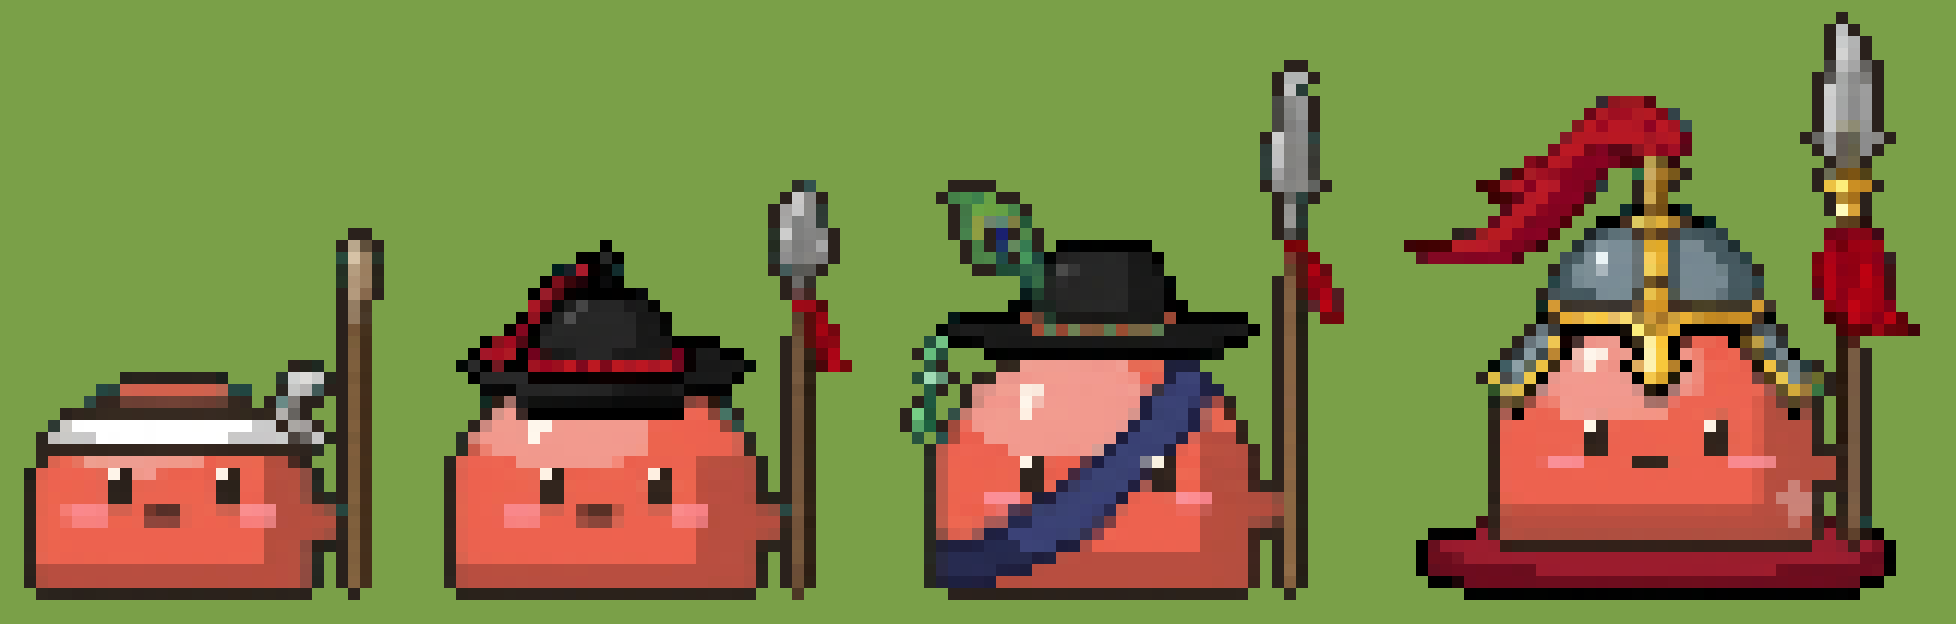
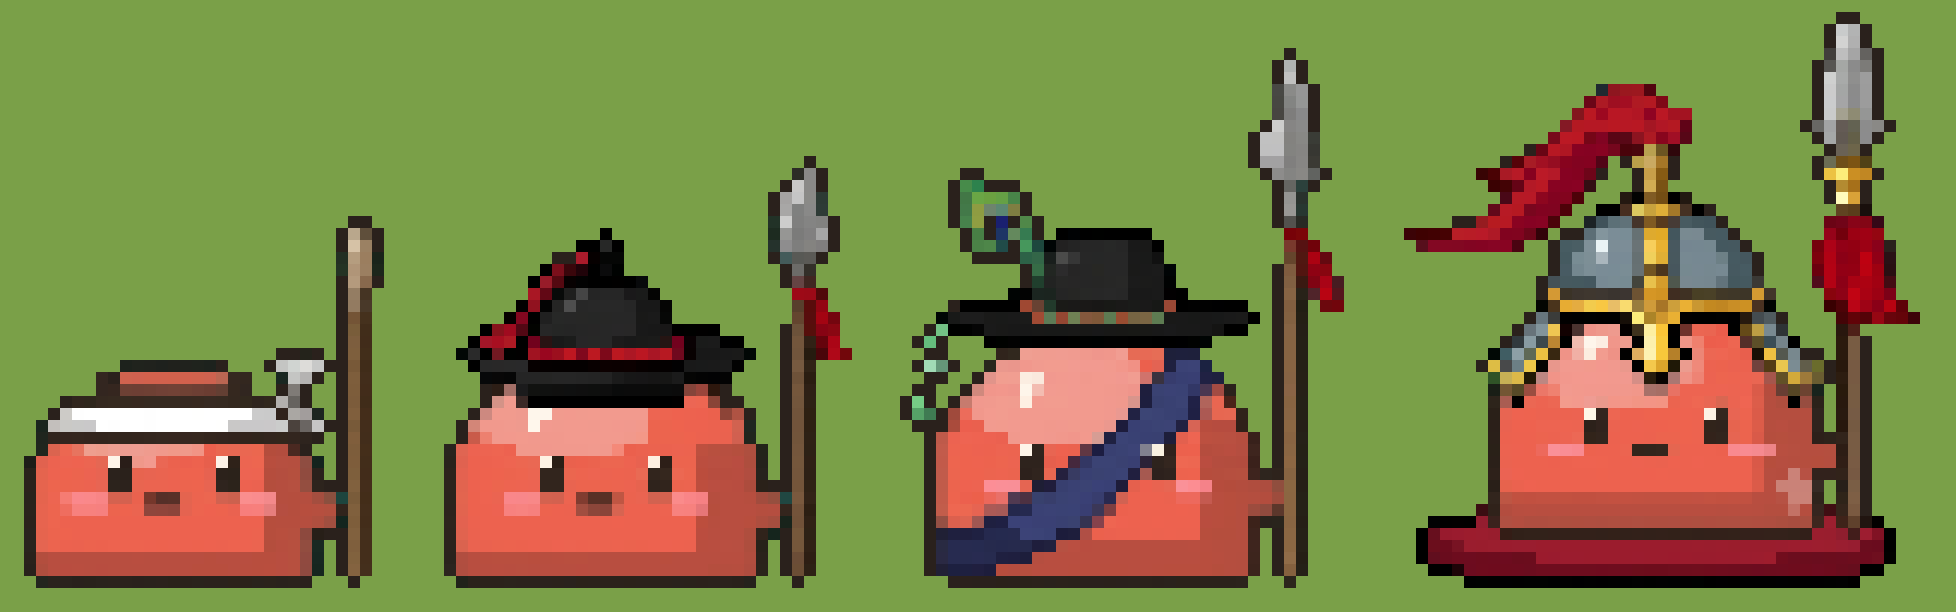
art+unity: 맵에 맞춰 다시 뽑은 기본 슬라임 4단계(청회색 외곽선) 넣기 — 미리보기 기본, Space로 옛/V2 비교
Claude-Session: https://claude.ai/code/session_01516Ff1ezD39vnqGwiHhyKB

diff --git a/unity/Assets/Scripts/Game/Sprites.cs b/unity/Assets/Scripts/Game/Sprites.cs
@@ -18,8 +18,13 @@ namespace Mallang
         public const float BoardPerDotV2 = 1.5f;
         public const int Unit2PxPerDot = 3; // sync_art.py UNIT2_PX와 같아야 함
 
-        /// 큰 새 슬라임을 쓸지 (없는 병과는 옛 그림으로). 미리보기에서 Space로 바꿈.
-        public static bool UseV2 = true;
+        /// 맵에 맞춰 다시 뽑은 기본 슬라임(base-*): 몸 폭 23~48도트로 잘게 그려져 있어 1도트 = 보드 1.125.
+        public const float BoardPerDotBase = 1.125f;
+
+        /// 미리보기 그림 고르기 (Space로 돌아감): 옛 그림 → 큰 새 그림(V2) → 맵에 맞춘 기본 슬라임
+        public enum Look { V1, V2, Base }
+        public static Look Mode = Look.Base;
+        public static bool UseV2 => Mode == Look.V2;
 
         static readonly Dictionary<string, Sprite> cache = new Dictionary<string, Sprite>();
 
@@ -64,6 +69,12 @@ namespace Mallang
         /// 도트 슬라임 (예: "spear-jangsu"). 피벗 = 발. UseV2면 큰 새 그림이 있을 때 그것을 쓴다.
         public static Sprite Unit(string name)
         {
+            if (Mode == Look.Base)
+            {
+                int dash = name.IndexOf('-');
+                var b = UnitV2("base" + name.Substring(dash), BoardPerDotBase);
+                if (b != null) return b;
+            }
             if (UseV2)
             {
                 var v2 = UnitV2(name);
@@ -72,7 +83,7 @@ namespace Mallang
             return UnitV1(name);
         }
 
-        static Sprite UnitV2(string name)
+        static Sprite UnitV2(string name, float boardPerDot = BoardPerDotV2)
         {
             string key = $"unit2:{name}";
             if (cache.TryGetValue(key, out var s)) return s;
@@ -82,7 +93,7 @@ namespace Mallang
             if (t == null) return null;
             var foot = footDots.Value * Unit2PxPerDot;
             var pivot = new Vector2(foot.x / t.width, 1 - foot.y / t.height);
-            s = Sprite.Create(t, new Rect(0, 0, t.width, t.height), pivot, Ppu(Unit2PxPerDot / BoardPerDotV2), 0, SpriteMeshType.FullRect);
+            s = Sprite.Create(t, new Rect(0, 0, t.width, t.height), pivot, Ppu(Unit2PxPerDot / boardPerDot), 0, SpriteMeshType.FullRect);
             s.name = name;
             return cache[key] = s;
         }

diff --git a/art/tools/slime/snap_pixel_slime.py b/art/tools/slime/snap_pixel_slime.py
@@ -19,6 +19,7 @@ RANKS = ['gunjol', 'jeongbyeong', 'gungwan', 'jangsu']
 BODY = {   # 병과별 몸 기본색 (견본과 같음) — 발 위치를 찾을 때 씀
     'spear': (240, 106, 85), 'archer': (116, 201, 94), 'gunner': (164, 134, 224),
     'cavalry': (240, 177, 69), 'navy': (85, 166, 234), 'mystic': (180, 187, 197),
+    'base': (218, 108, 85),   # 맵에 맞춘 기본 슬라임 (차분한 산호색)
 }
 
 
@@ -223,7 +224,7 @@ def redraw_face(piece, off, body_rgb):
     else: put(ey + 2, int(mid), OUTLINE); put(ey + 2, int(mid) + 1, OUTLINE)
 
 
-def clean_piece(piece, body_rgb):
+def clean_piece(piece, body_rgb, outline=(42, 33, 28)):
     """도트 정리: 제미나이 격자가 고르지 않아 생긴 흠을 고친다.
     ① 혼자 떨어진 점 지우기 ② 배경(하늘색)이 번진 청록 점을 옆 색으로
     ④ 바깥 외곽선이 끊긴 곳을 1도트 진한 갈색 외곽선으로 이어 닫기."""
@@ -255,7 +256,15 @@ def clean_piece(piece, body_rgb):
     ring = np.zeros_like(big)
     ring[1:, :] |= big[:-1, :]; ring[:-1, :] |= big[1:, :]; ring[:, 1:] |= big[:, :-1]; ring[:, :-1] |= big[:, 1:]
     ring &= ~np.pad(a, 1)
-    out[ring] = (42, 33, 28, 255)
+    out[ring] = (*outline, 255)
+    # 가장자리에 남은 청록 섞인 진한 점 → 외곽선 색
+    oc = out[..., :3].astype(int)
+    oa = out[..., 3] > 0
+    edge = oa & ~np.pad(np.ones((H, W), bool), 1)
+    pad2 = np.pad(oa, 1)
+    border = oa & ~(pad2[:-2, 1:-1] & pad2[2:, 1:-1] & pad2[1:-1, :-2] & pad2[1:-1, 2:])
+    tealish = border & (oc[..., 1] > oc[..., 0] + 10) & (oc[..., 2] > oc[..., 0] + 10) & (oc.sum(2) < 400)
+    out[tealish] = (*outline, 255)
     return out
 
 

diff --git a/art/tools/slime/unity_sheet.py b/art/tools/slime/unity_sheet.py
@@ -43,17 +43,28 @@ def dot_size(path):
     return p + (w[2] - w[0]) / max(1.0, w.sum()) 
 
 
+MAP_OUTLINE = (60, 68, 70)   # 맵·궁 외곽선 청회색 #3C4446
+
+
 def main(branch='spear'):
     path = os.path.join(SRC, f'{branch}-sheet.png')
+    # 하늘색 배경 + 제미나이가 넣은 어두운 청록 그림자를 모두 순수 하늘색으로
+    a = np.asarray(Image.open(path).convert('RGB')).astype(int)
+    bgm = (a[..., 1] > 140) & (a[..., 2] > 140) & (a[..., 0] < 120)
+    a[bgm] = (0, 255, 255)
+    os.makedirs(PREV, exist_ok=True)
+    tmp = os.path.join(PREV, f'_{branch}-bg.png')
+    Image.fromarray(a.astype(np.uint8)).save(tmp)
     P = round(dot_size(path), 2)
-    d = sp.snap(path, P)
+    d = sp.snap(tmp, P)
+    os.remove(tmp)
     parts = sp.split(d, sp.BODY[branch])
     os.makedirs(DOTS, exist_ok=True); os.makedirs(PREV, exist_ok=True)
     fp = os.path.join(DOTS, 'feet.json')
     feet = json.load(open(fp, encoding='utf-8')) if os.path.exists(fp) else {}
     pieces = []
     for (piece, foot, bw, off), rk in zip(parts, sp.RANKS):
-        piece = sp.clean_piece(piece, sp.BODY[branch])
+        piece = sp.clean_piece(piece, sp.BODY[branch], MAP_OUTLINE if branch == 'base' else (42, 33, 28))
         foot = (foot[0] + 1, foot[1] + 1)
         feet[f'{branch}-{rk}'] = [float(foot[0]), float(foot[1])]
         Image.fromarray(piece).save(os.path.join(DOTS, f'{branch}-{rk}.png'))

diff --git a/unity/Assets/Scripts/Game/PreviewBootstrap.cs b/unity/Assets/Scripts/Game/PreviewBootstrap.cs
@@ -64,10 +64,11 @@ namespace Mallang
         void Update()
         {
             FitCamera();
-            // Space: 큰 새 슬라임 ↔ 옛 슬라임 비교
+            // Space: 기본 슬라임(맵에 맞춘 것) → 옛 그림 → 큰 새 그림(V2) 순서로 바꿔 보기
             if (Input.GetKeyDown(KeyCode.Space))
             {
-                Sprites.UseV2 = !Sprites.UseV2;
+                Sprites.Mode = (Sprites.Look)(((int)Sprites.Mode + 1) % 3);
+                Debug.Log($"슬라임 그림: {Sprites.Mode}");
                 foreach (var v in FindObjectsByType<SlimeView>(FindObjectsSortMode.None)) v.Refresh();
             }
             spawnTimer += Time.deltaTime;
